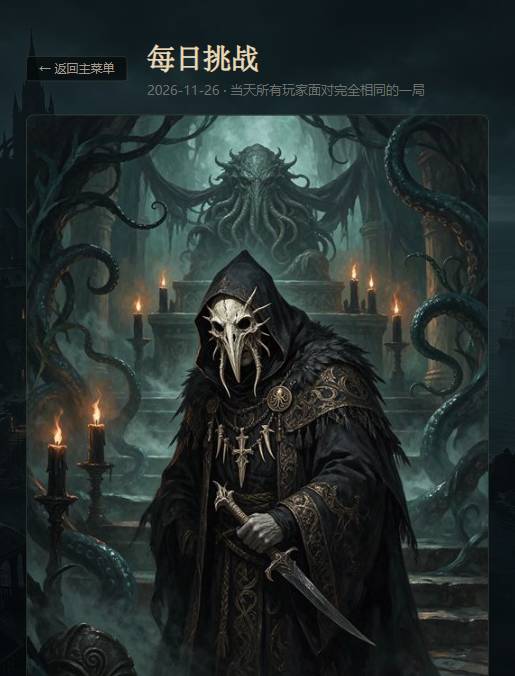
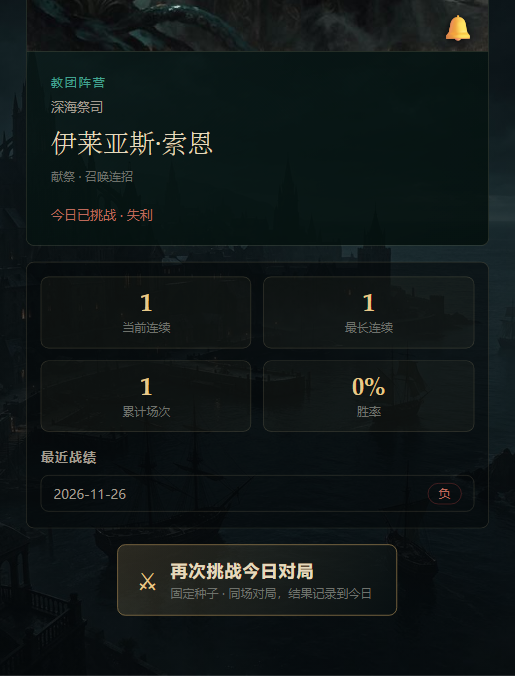
feat: 每日挑战连续打卡与战绩统计（当前/最长连续、胜率、最近战绩）

diff --git a/src/styles-v2/menu.css b/src/styles-v2/menu.css
@@ -696,3 +696,77 @@
   .gh2-daily-card__media { min-height: 240px; border-right: none; border-bottom: 1px solid var(--gh2-line); }
   .gh2-daily__foot .gh2-menu-btn { min-width: 280px; }
 }
+
+/* ── Daily stats: streaks + history ────────────────────────── */
+
+.gh2-daily-stats {
+  display: flex;
+  flex-direction: column;
+  gap: 16px;
+  border: 1px solid var(--gh2-line);
+  border-radius: var(--gh2-radius);
+  padding: 18px 20px 20px;
+  background: rgba(4, 8, 10, 0.55);
+}
+.gh2-daily-stat-grid {
+  display: grid;
+  grid-template-columns: repeat(4, 1fr);
+  gap: 12px;
+}
+.gh2-daily-stat {
+  display: flex;
+  flex-direction: column;
+  align-items: center;
+  gap: 4px;
+  padding: 12px 8px;
+  border: 1px solid var(--gh2-line);
+  border-radius: var(--gh2-radius);
+  background: rgba(232, 201, 138, 0.04);
+}
+.gh2-daily-stat b {
+  color: var(--gh2-lamp);
+  font-family: var(--gh2-font-display);
+  font-size: 24px;
+  line-height: 1.1;
+}
+.gh2-daily-stat span { color: var(--gh2-silver-faint); font-size: 12px; }
+
+.gh2-daily-history-wrap h3 {
+  margin: 0 0 10px;
+  color: var(--gh2-silver-dim);
+  font-size: 13px;
+  letter-spacing: 0.08em;
+}
+.gh2-daily-history {
+  list-style: none;
+  margin: 0;
+  padding: 0;
+  display: flex;
+  flex-direction: column;
+  gap: 6px;
+}
+.gh2-daily-history li {
+  display: flex;
+  align-items: center;
+  justify-content: space-between;
+  padding: 7px 12px;
+  border: 1px solid var(--gh2-line);
+  border-radius: var(--gh2-radius);
+}
+.gh2-daily-history__date { color: var(--gh2-silver-dim); font-size: 13px; }
+.gh2-daily-history__mark {
+  min-width: 34px;
+  padding: 2px 8px;
+  text-align: center;
+  font-size: 12px;
+  border-radius: 999px;
+  border: 1px solid var(--gh2-line);
+}
+.gh2-daily-history__mark.is-win { color: var(--gh2-lamp); border-color: rgba(232, 201, 138, 0.5); }
+.gh2-daily-history__mark.is-loss { color: var(--gh2-danger); border-color: rgba(178, 62, 62, 0.5); }
+.gh2-daily-history__empty { margin: 0; color: var(--gh2-silver-faint); font-size: 13px; }
+
+@media (max-width: 1024px) {
+  .gh2-daily-stat-grid { grid-template-columns: repeat(2, 1fr); }
+  .gh2-daily-stats { padding: 14px 14px 16px; }
+}

diff --git a/README.md b/README.md
@@ -14,9 +14,9 @@
 - **确定性引擎**：所有随机走注入式 rng（无 `Math.random`），同种子可完全复现，便于复盘、自对弈与锁步防作弊。
 - **启发式 AI 对手**：合法动作生成 + 评估函数打分，注入式随机，支持固定种子与随机牌局。
 - **竞技场选牌（Arena Draft）**：从随机候选池逐轮三选一构筑 19 张牌，再用该牌进入人机对战；选牌过程确定性、可复现，复用现有引擎与控制器，无 per-id 分支。
-- **每日挑战（Daily Challenge）**：把日历日期换算成确定性种子，按日期派生固定阵营与合法领袖，当天所有玩家面对完全相同的一局；结果用本地存档按日期记录，隐私模式下静默降级。
+- **每日挑战（Daily Challenge）**：把日历日期换算成确定性种子，按日期派生固定阵营与合法领袖，当天所有玩家面对完全相同的一局；结果用本地存档按日期记录，并汇总出当前/最长连续打卡、累计场次、胜率与最近战绩，隐私模式下静默降级。
 - **锁步对战框架**：可插拔座位驱动 + 确定性输入校验，已用假传输完成两客户端完整对局（菜单入口暂标注“开发中”）。
-- **零依赖、零构建**：原生 ES Modules + 本地美术 + WebAudio 实时合成音效，全量 **443 项自动化测试**通过。
+- **零依赖、零构建**：原生 ES Modules + 本地美术 + WebAudio 实时合成音效，全量 **451 项自动化测试**通过。
 
 ## 技术栈
 
@@ -87,7 +87,7 @@ src/
 ├─ ai/v2/           新版 AI（合法动作 + 启发式评估，注入式随机）
 ├─ campaign/        战役元层：地图、池、操作 DSL、奖励、战斗翻译、run 状态机 + data/（遗物、事件）
 ├─ arena/           竞技场选牌纯逻辑（候选池 / 三选一 / 份数 / 校验 / battleOptions）
-├─ daily/           每日挑战纯逻辑（日期→种子 / 阵营 / 领袖 / battleOptions / 记录读写）
+├─ daily/           每日挑战纯逻辑（日期→种子 / 阵营 / 领袖 / battleOptions / 记录读写 / 连续与胜率统计）
 ├─ data/            卡表 / 领袖 / 阵营 / 预设牌组（唯一数值事实源）
 ├─ ui-v2/           新版 UI
 │  ├─ campaign/     战役控制器 + 纯函数屏幕模板（地图 / 事件 / 奖励 / 休整 / 结算）
@@ -105,7 +105,7 @@ src/
 tests/
 ├─ campaign/        战役套件（地图 / 数据 / run 状态机 / 战斗配置 / 操作 / 模板，53 项）
 ├─ arena/           竞技场选牌纯逻辑套件（11 项）
-├─ daily/           每日挑战纯逻辑套件（8 项）
+├─ daily/           每日挑战纯逻辑 + 统计套件（15 项）
 ├─ v2/, ai-v2/      新版引擎 / AI 套件
 ├─ ui-v2/           新版 UI、控制器、氛围层、存档、竞技场/每日模板套件（103 项，注入假对象）
 └─ *.test.mjs       旧版引擎 / 数据 / AI / E2E 遗留套件
@@ -210,7 +210,8 @@ research/           来源数据、QA 记录与审计产物
 
 主菜单「每日挑战」进入。无需选择阵营与角色：系统把**当天日期**换算成确定性种子，并按日期派生
 固定阵营与该阵营的合法领袖，当天所有玩家面对完全相同的一局预设牌对局。结束后用本地存档按日期
-记录胜负，重进介绍屏会显示「今日已挑战 · 胜利 / 失利」，也可再次挑战同一固定对局。
+记录胜负，重进介绍屏会显示「今日已挑战 · 胜利 / 失利」，并在下方看到连续打卡、胜率与最近战绩，
+也可再次挑战同一固定对局。
 
 ![每日挑战](screenshots/daily-challenge.png)
 
@@ -222,12 +223,16 @@ research/           来源数据、QA 记录与审计产物
 4. **本地存档**：通用存档封装 `src/ui-v2/storage.mjs`（默认 localStorage，可注入后端），每日记录写在
    `greyharbor.daily.challenge.v1` 下的按日期 map；隐私模式 / 配额受限时 try/catch 静默降级，坏 JSON 容错，
    不阻断游玩。
+5. **打卡与战绩**：纯函数 `src/daily/stats.mjs` 从按日期 map 汇总**当前连续 / 最长连续**（当天未打不中断，
+   缺一天即断）、累计场次、胜场与胜率，以及最近 10 天的胜负列表；日期运算走 UTC，避免时区与夏令时漂移。
 
-纯逻辑位于 `src/daily/daily.mjs`（日期格式化、配置派生、battleOptions 构建、记录读写），交互界面位于
+纯逻辑位于 `src/daily/daily.mjs`（日期格式化、配置派生、battleOptions 构建、记录读写）与
+`src/daily/stats.mjs`（连续、胜率、最近战绩汇总），交互界面位于
 `src/ui-v2/daily/`（控制器 + 纯函数模板），通用存档见 `src/ui-v2/storage.mjs`，样式见
 `src/styles-v2/menu.css` 的 Daily Challenge 段。专项测试 `tests/daily/daily.test.mjs`（8 项）、
-`tests/ui-v2/storage.test.mjs`（5 项）与 `tests/ui-v2/daily-template.test.mjs`（4 项），
-含 headless 整局打完、坏记录容错与 HTML 转义验收。
+`tests/daily/stats.test.mjs`（7 项）、`tests/ui-v2/storage.test.mjs`（5 项）与
+`tests/ui-v2/daily-template.test.mjs`（5 项），
+含 headless 整局打完、连续打卡边界、坏记录容错与 HTML 转义验收。
 
 ## 氛围层（阶段 3.4）
 
@@ -246,10 +251,10 @@ node --test tests/v2/*.test.mjs                     # 引擎套件：130 项
 node --test tests/ai-v2/*.test.mjs                  # AI 套件：7 项
 node --test tests/ui-v2/*.test.mjs                  # UI + 氛围层 + 角色选择 + 竞技场/每日模板 + 存档：103 项
 node --test tests/arena/*.test.mjs                  # 竞技场选牌纯逻辑：11 项
-node --test tests/daily/*.test.mjs                  # 每日挑战纯逻辑：8 项
+node --test tests/daily/*.test.mjs                  # 每日挑战纯逻辑 + 统计：15 项
 node --test tests/multiplayer/*.test.mjs            # 锁步 / 多人框架：11 项
 node --test tests/tutorial/*.test.mjs               # 交互式教程：14 项
-node --test                                         # 全量递归：443 项 = 441 通过 + 2 跳过，0 失败
+node --test                                         # 全量递归：451 项 = 449 通过 + 2 跳过，0 失败
 ```
 
 `npm test` 的脚本只匹配 `tests/*.test.mjs`；子目录套件需按上面的显式 glob 运行。
